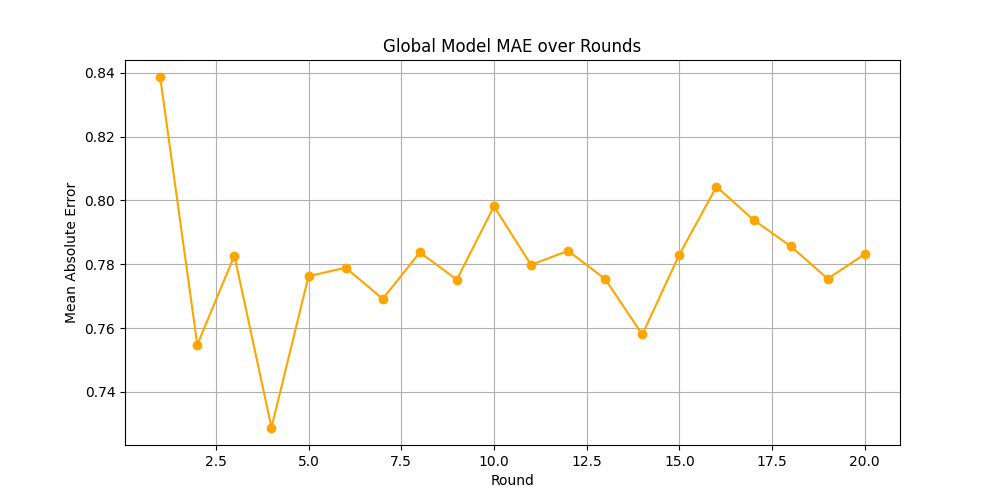
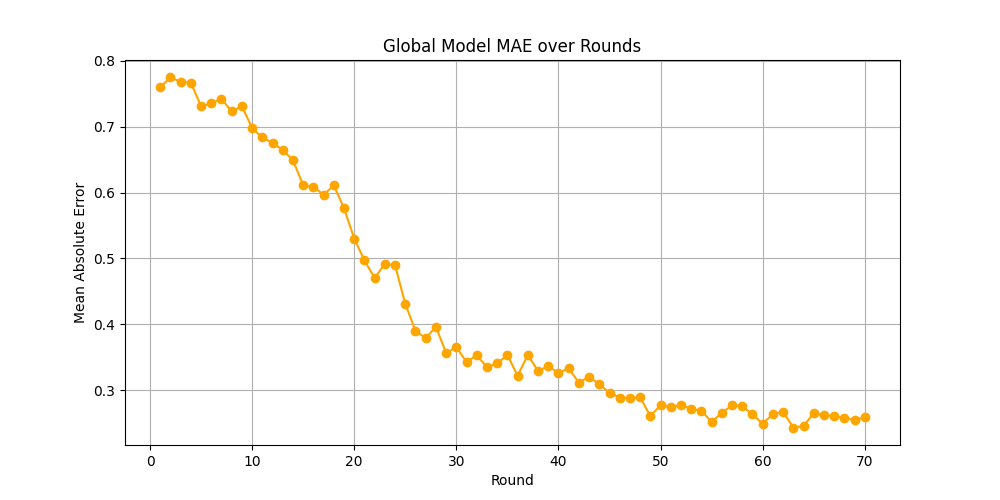
Updated results

diff --git a/simulation.py b/simulation.py
@@ -31,7 +31,7 @@ if __name__ == "__main__":
     hist = fl.simulation.start_simulation(
         client_fn=client_fn,
         num_clients=5,                 # Total number of clients
-        config=fl.server.ServerConfig(num_rounds=100),
+        config=fl.server.ServerConfig(num_rounds=70),
         strategy=strategy,
     )
 
